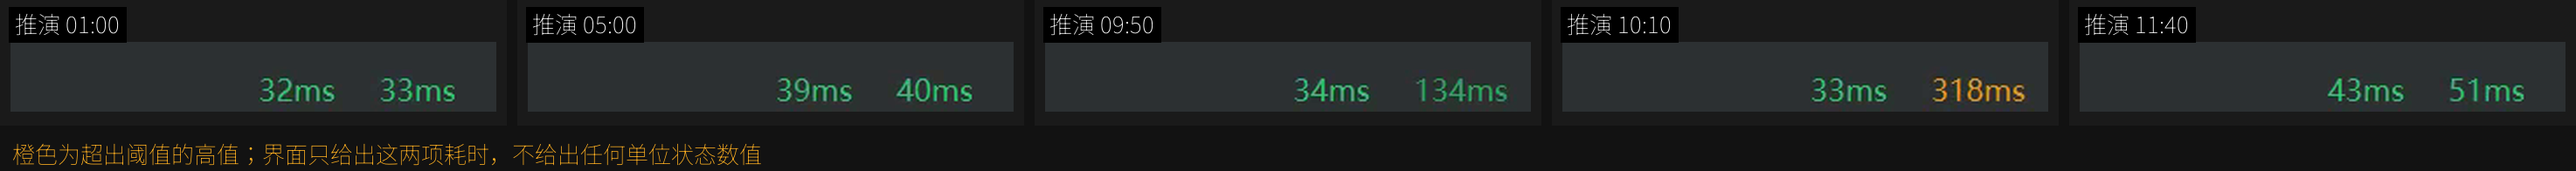
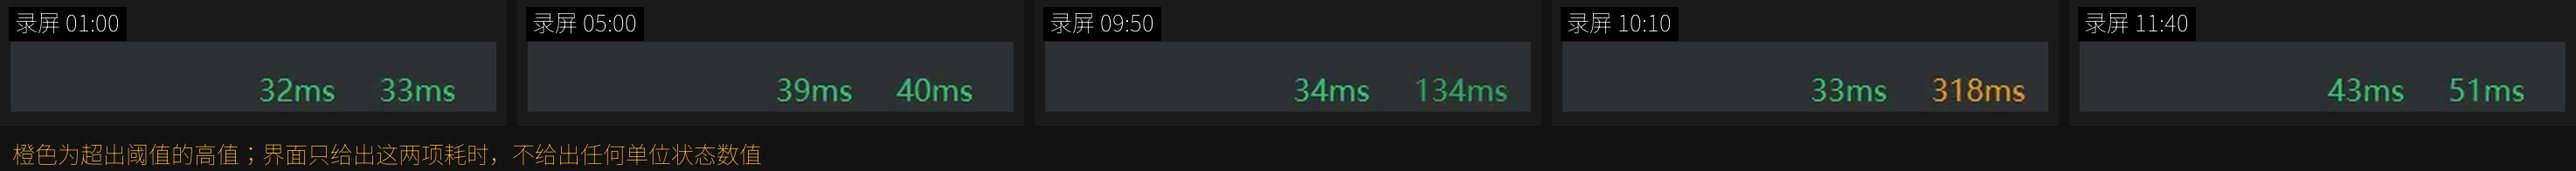
fix(verify): 时间码改标“录屏”，并写明时间分辨率的界限
- 图内与图注的时间统一标为录屏时刻，不与推演内时钟混用
- 第 7 章补一段：界面无时间轴、无回放、无指令日志，只能给出以秒计的
  目视先后，因此“动作发生在某条指令之后若干秒”这类判断本文一次也没做

diff --git a/paper/shared/scripts/fig_verify2.py b/paper/shared/scripts/fig_verify2.py
@@ -99,7 +99,7 @@ def rings(cap):
     img = Image.fromarray(cv2.cvtColor(fr, cv2.COLOR_BGR2RGB)).convert("RGBA")
     d = ImageDraw.Draw(img, "RGBA")
 
-    tag(d, (12, 12), "推演 00:26", size=30)
+    tag(d, (12, 12), "录屏 00:26", size=30)
     # 选中单位
     arrow(d, (300, 690), (632, 566), color=ACC)
     tag(d, (150, 696), "① 选中单位（护卫舰）", size=27)
@@ -126,7 +126,7 @@ def latency(cap):
         canvas = Image.new("RGBA", (img.width + 24, img.height + 64), (26, 26, 26, 255))
         canvas.paste(img, (12, 48))
         d = ImageDraw.Draw(canvas, "RGBA")
-        tag(d, (10, 8), f"推演 {int(t // 60):02d}:{t % 60:02d}", size=26)
+        tag(d, (10, 8), f"录屏 {int(t // 60):02d}:{t % 60:02d}", size=26)
         tiles.append(canvas)
 
     h = tiles[0].height
